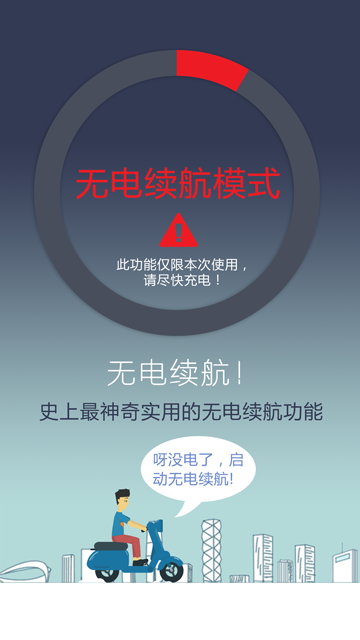
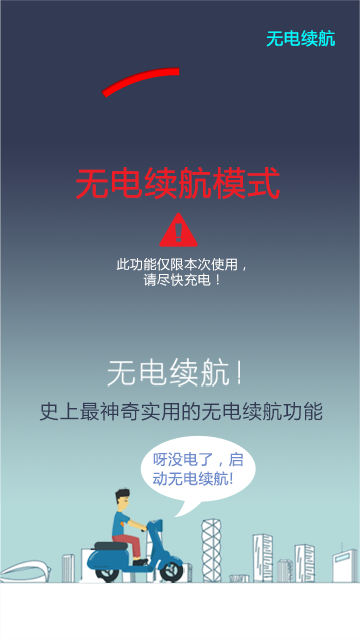
Update: help
close #110

diff --git a/www/templates/help.html b/www/templates/help.html
@@ -13,13 +13,19 @@
       <div class="box"><img src="img/slide3.png"></div>
     </ion-slide>
     <ion-slide>
+      <div class="box"><img src="img/slide4.png"></div>
+    </ion-slide>
+    <ion-slide>
+      <div class="box"><img src="img/slide5.png"></div>
+    </ion-slide>
+    <ion-slide>
       <div class="box">
         <div class="button-starter">
           <button class="button button-block button-large button-calm" ng-click="$ionicGoBack()">
             开始体验
           </button>
         </div>
-        <img src="img/slide4.png">
+        <img src="img/slide6.png">
       </div>
     </ion-slide>
   </ion-slide-box>
